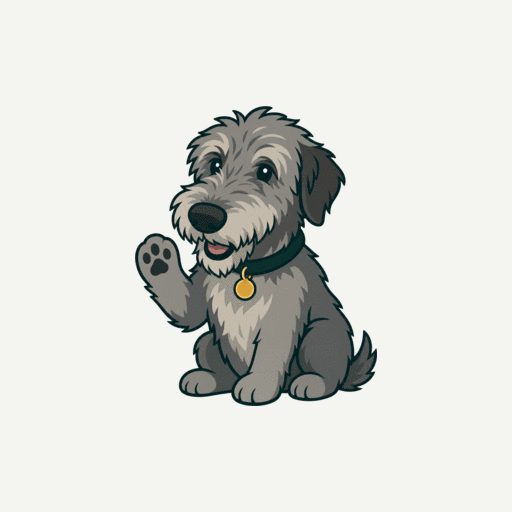
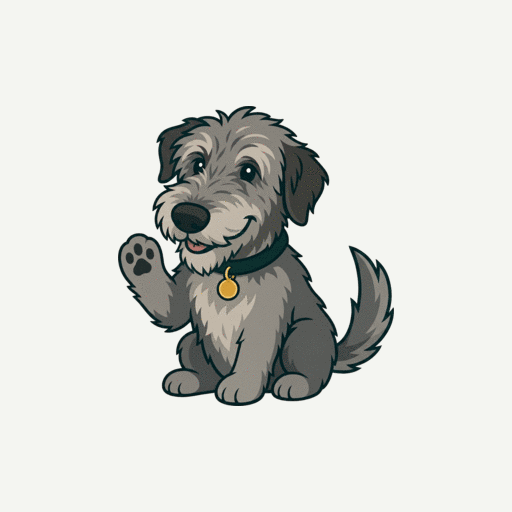
Give the mascot a cheeky grin and a real tail wag

Changed region(s): [[0.2188, 0.1875, 0.7812, 0.8125]]

diff --git a/web/public/maskot-demo.html b/web/public/maskot-demo.html
@@ -1,0 +1,79 @@
+<!doctype html>
+<html lang="sv">
+  <head>
+    <meta charset="utf-8" />
+    <meta name="viewport" content="width=device-width, initial-scale=1" />
+    <title>Sparly-hunden – svansviftning</title>
+    <style>
+      :root { --bg:#f4f5f1; --ink:#0d2027; --navy:#0b2a24; --emerald:#0f6b52; --gold:#b8902f; }
+      * { box-sizing: border-box; }
+      body { margin:0; background:var(--bg); color:var(--ink); font:16px/1.5 ui-sans-serif,system-ui,-apple-system,"Segoe UI",Roboto,sans-serif; }
+      .wrap { max-width: 1040px; margin: 0 auto; padding: 32px 20px 72px; }
+      h1 { font-size: 1.6rem; letter-spacing:-.03em; margin:0 0 4px; }
+      p.lead { margin:0 0 28px; color:#4a5b5d; }
+      .grid { display:grid; gap:20px; grid-template-columns: repeat(auto-fit, minmax(240px, 1fr)); }
+      .card { background:#fff; border:1px solid #e2e5dd; border-radius:18px; padding:18px; text-align:center; }
+      .card h2 { font-size:.8rem; text-transform:uppercase; letter-spacing:.12em; color:#6b7a76; margin:0 0 10px; }
+      .dark { background: linear-gradient(140deg,#0b2a24,#104036); border:0; color:#eafaf2; }
+      .dark h2 { color:rgba(214,245,231,.7); }
+      .stage { position:relative; display:inline-block; }
+      .frame { position:absolute; inset:0; width:100%; height:100%; opacity:0; animation: wag .6s steps(1,end) infinite; }
+      .frame:first-child { position:relative; }
+      .f1 { animation-delay:0s } .f2 { animation-delay:.2s } .f3 { animation-delay:.4s }
+      @keyframes wag { 0%,33.32%{opacity:1} 33.33%,100%{opacity:0} }
+      .slow .frame { animation-duration: 2.4s; }
+      .slow .f1 { animation-delay:0s } .slow .f2 { animation-delay:.8s } .slow .f3 { animation-delay:1.6s }
+      .sizes { display:flex; align-items:flex-end; gap:18px; justify-content:center; margin-top:12px; }
+      .note { font-size:.8rem; color:#6b7a76; margin-top:8px; }
+      .badge { display:inline-block; font-size:.75rem; padding:4px 10px; border-radius:999px; background:#e7f0ea; color:#0f6b52; }
+      footer { margin-top:36px; font-size:.82rem; color:#6b7a76; }
+    </style>
+  </head>
+  <body>
+    <div class="wrap">
+      <h1>Sparly-hunden</h1>
+      <p class="lead">Samma hund i tre teckningar – bara svansen sitter olika högt. Bilderna växlas i tur och ordning, så svansen viftar. Mungipan dras snett uppåt åt sidan, precis som du bad om.</p>
+      <div class="grid">
+        <div class="card">
+          <h2>Normal takt</h2>
+          <div class="stage" style="width:260px">
+            <img class="frame f1" src="/mascot/hund-vift-1.png" width="420" height="457" alt="" />
+            <img class="frame f2" src="/mascot/hund-vift-2.png" width="420" height="457" alt="" />
+            <img class="frame f3" src="/mascot/hund-vift-3.png" width="420" height="457" alt="" />
+          </div>
+          <p class="note">0,6 s per varv – så han rör sig i appen.</p>
+        </div>
+        <div class="card slow">
+          <h2>Långsam (för att se lägena)</h2>
+          <div class="stage" style="width:260px">
+            <img class="frame f1" src="/mascot/hund-vift-1.png" width="420" height="457" alt="" />
+            <img class="frame f2" src="/mascot/hund-vift-2.png" width="420" height="457" alt="" />
+            <img class="frame f3" src="/mascot/hund-vift-3.png" width="420" height="457" alt="" />
+          </div>
+          <p class="note">2,4 s per varv. <span class="badge">svans upp → mitt → ner</span></p>
+        </div>
+        <div class="card dark">
+          <h2>I inloggningens hero</h2>
+          <div class="stage" style="width:210px; filter: drop-shadow(0 16px 30px rgba(0,0,0,.45))">
+            <img class="frame f1" src="/mascot/hund-vift-1.png" width="420" height="457" alt="" />
+            <img class="frame f2" src="/mascot/hund-vift-2.png" width="420" height="457" alt="" />
+            <img class="frame f3" src="/mascot/hund-vift-3.png" width="420" height="457" alt="" />
+          </div>
+          <p class="note" style="color:rgba(233,242,237,.6)">På mörk botten, med skugga.</p>
+        </div>
+      </div>
+
+      <div class="card" style="margin-top:20px">
+        <h2>Storlekar</h2>
+        <div class="sizes">
+          <div class="stage" style="width:200px"><img class="frame f1" src="/mascot/hund-vift-1.png" alt="" /><img class="frame f2" src="/mascot/hund-vift-2.png" alt="" /><img class="frame f3" src="/mascot/hund-vift-3.png" alt="" /></div>
+          <div class="stage" style="width:120px"><img class="frame f1" src="/mascot/hund-vift-1.png" alt="" /><img class="frame f2" src="/mascot/hund-vift-2.png" alt="" /><img class="frame f3" src="/mascot/hund-vift-3.png" alt="" /></div>
+          <div class="stage" style="width:72px"><img class="frame f1" src="/mascot/hund-vift-1.png" alt="" /><img class="frame f2" src="/mascot/hund-vift-2.png" alt="" /><img class="frame f3" src="/mascot/hund-vift-3.png" alt="" /></div>
+        </div>
+        <p class="note">Han fungerar även litet – 72 px i sidomenyn.</p>
+      </div>
+
+      <footer>Statisk förhandsvisning av bilderna. I appen sköts animationen av <code>.mascot__wag-frame</code> i <code>styles.css</code>, och stängs av (fast mittenbild) när användaren har ”minska rörelse” påslaget.</footer>
+    </div>
+  </body>
+</html>

diff --git a/web/src/components/Mascot.tsx b/web/src/components/Mascot.tsx
@@ -1,28 +1,41 @@
 /**
  * Sparly-hunden – appens maskot.
  *
- * Tecknad efter en strävhårig salt-och-peppar-hund: lurviga ögonbryn, skägg, stor svart nos och
- * hängande öron. Bilderna är förrenderade i flera storlekar så att mobilen aldrig laddar en
- * 640 px-bild för att visa en 64 px-avatar.
+ * Tecknad efter en strävhårig salt-och-peppar-hund: lurviga ögonbryn, skägg, stor svart nos,
+ * hängande öron och en mungipa som dras snett uppåt åt sidan så att han ser glad och lite busig ut.
  *
- * `variant="full"` är hela hunden (stående, vinkande), `variant="face"` är ett kvadratiskt
- * porträtt som beskärs snyggt i en cirkel.
+ * `variant="animated"` är tre separat tecknade bilder av exakt samma hund där bara svansen sitter i
+ * olika läge (upp / mitt / ner). De växlas i tur och ordning, vilket ger en riktig svansviftning i
+ * stället för att hela hunden studsar. Alla tre bilderna har samma beskärning, så inget hoppar.
+ *
+ * Bilderna är förrenderade i flera storlekar så att mobilen aldrig laddar en 640 px-bild för att
+ * visa en 64 px-avatar.
  */
-export type MascotVariant = 'full' | 'face';
+export type MascotVariant = 'full' | 'face' | 'animated';
 
-const FACES = {
+const STILL = {
   full: {
     src: '/mascot/hund.png',
     srcSet: '/mascot/hund-128.png 128w, /mascot/hund-256.png 256w, /mascot/hund-320.png 320w, /mascot/hund.png 640w',
-    /** The full-body artwork is taller than it is wide. */
-    ratio: 1064 / 860,
+    width: 640,
+    height: 696,
   },
   face: {
     src: '/mascot/hund-ansikte.png',
     srcSet: '/mascot/hund-ansikte.png 480w',
-    ratio: 1,
+    width: 480,
+    height: 480,
   },
 } as const;
+
+/** The three wag frames share one crop, so switching between them never shifts the dog. */
+const WAG = [
+  { src: '/mascot/hund-vift-1.png', label: 'Svansen upp' },
+  { src: '/mascot/hund-vift-2.png', label: 'Svansen mitt' },
+  { src: '/mascot/hund-vift-3.png', label: 'Svansen ner' },
+] as const;
+const WAG_WIDTH = 420;
+const WAG_HEIGHT = 457;
 
 export function Mascot({
   size = 140,
@@ -38,17 +51,50 @@ export function Mascot({
   decorative?: boolean;
   title?: string;
 }) {
-  const art = FACES[variant];
+  const classes = ['mascot', `mascot--${variant}`, className].filter(Boolean).join(' ');
+  const alt = decorative ? '' : title;
+  const ariaHidden = decorative ? 'true' : undefined;
+
+  if (variant === 'animated') {
+    const height = Math.round((size * WAG_HEIGHT) / WAG_WIDTH);
+    return (
+      <span
+        className={`${classes} mascot__wag`}
+        style={{ width: size, height }}
+        role={decorative ? undefined : 'img'}
+        aria-label={decorative ? undefined : title}
+        aria-hidden={ariaHidden}
+      >
+        {WAG.map((frame, index) => (
+          <img
+            key={frame.src}
+            className="mascot__wag-frame"
+            src={frame.src}
+            width={WAG_WIDTH}
+            height={WAG_HEIGHT}
+            alt=""
+            aria-hidden="true"
+            style={{ animationDelay: `${index * 0.2}s` }}
+            decoding="async"
+            draggable={false}
+          />
+        ))}
+      </span>
+    );
+  }
+
+  const art = STILL[variant];
+  const height = Math.round((size * art.height) / art.width);
   return (
     <img
-      className={['mascot', `mascot--${variant}`, className].filter(Boolean).join(' ')}
+      className={classes}
       src={art.src}
       srcSet={art.srcSet}
       sizes={`${size}px`}
       width={size}
-      height={Math.round(size * art.ratio)}
-      alt={decorative ? '' : title}
-      aria-hidden={decorative ? 'true' : undefined}
+      height={height}
+      alt={alt}
+      aria-hidden={ariaHidden}
       decoding="async"
       draggable={false}
     />

diff --git a/web/src/styles.css b/web/src/styles.css
@@ -1642,6 +1642,43 @@ ol {
 }
 
 /*
+ * Svansviftningen: tre tecknade bilder av samma hund där bara svansen sitter olika högt.
+ * De ligger staplade på varandra och släcks/tänds i tur och ordning, 0,6 s per varv.
+ * Bilderna delar exakt samma beskärning, så bara svansen rör sig.
+ */
+.mascot__wag {
+  position: relative;
+  display: block;
+  flex: 0 0 auto;
+}
+
+.mascot__wag-frame {
+  position: absolute;
+  inset: 0;
+  width: 100%;
+  height: 100%;
+  opacity: 0;
+  animation: mascot-wag 0.6s steps(1, end) infinite;
+  user-select: none;
+  -webkit-user-drag: none;
+}
+
+.mascot__wag-frame:first-child {
+  position: relative;
+}
+
+@keyframes mascot-wag {
+  0%,
+  33.32% {
+    opacity: 1;
+  }
+  33.33%,
+  100% {
+    opacity: 0;
+  }
+}
+
+/*
  * Logga in / skapa konto: hunden sitter i hörnet av fjordscenen. På mobil ligger den i flödet
  * ovanför rubriken (högerställd, liten), på desktop sitter den stort i nedre högra hörnet.
  */
@@ -1655,9 +1692,12 @@ ol {
 }
 
 .auth__mascot .mascot {
-  height: 108px;
-  width: auto;
   filter: drop-shadow(0 12px 24px rgba(4, 24, 20, 0.45));
+}
+
+.auth__mascot-art {
+  width: 116px;
+  height: auto;
 }
 
 /* Sidopanelen (desktop): hunden som liten följeslagare ovanför nivåkortet. */
@@ -1667,8 +1707,6 @@ ol {
 
 /* Tomma lägen: hunden i stället för den generiska illustrationen. */
 .empty-state__mascot {
-  height: 118px;
-  width: auto;
   margin-bottom: 2px;
 }
 
@@ -1687,8 +1725,11 @@ ol {
   }
 
   .auth__mascot .mascot {
-    height: 300px;
     filter: drop-shadow(0 22px 44px rgba(4, 24, 20, 0.5));
+  }
+
+  .auth__mascot-art {
+    width: 300px;
   }
 
   .sidebar__mascot {
@@ -1704,9 +1745,11 @@ ol {
     text-align: center;
   }
 
-  .sidebar__mascot .mascot {
-    height: 92px;
-    width: auto;
+
+
+  .sidebar__mascot-art {
+    width: 92px;
+    height: auto;
   }
 
   .sidebar__mascot-line {
@@ -1739,5 +1782,15 @@ ol {
   .skeleton__hero,
   .skeleton__line {
     animation: none;
+  }
+
+  /* With motion turned off the dog keeps the middle frame, still visibly happy. */
+  .mascot__wag-frame {
+    animation: none;
+    opacity: 0;
+  }
+
+  .mascot__wag-frame:nth-child(2) {
+    opacity: 1;
   }
 }

diff --git a/server/tests/ui.test.ts b/server/tests/ui.test.ts
@@ -62,6 +62,28 @@ describe('18. The application works on mobile and desktop (static + delivery che
     expect(fs.readFileSync(path.join(root, 'web/src/components/UI.tsx'), 'utf8')).toContain('empty-state__mascot');
   });
 
+  it('animates the tail wag with pre-drawn frames that share one crop', () => {
+    const component = fs.readFileSync(path.join(root, 'web/src/components/Mascot.tsx'), 'utf8');
+    expect(component).toContain("variant = 'full'");
+    expect(component).toContain("'animated'");
+
+    const frames = [...component.matchAll(/\/mascot\/hund-vift-(\d)\.png/g)].map((match) => match[1]);
+    expect(frames).toEqual(['1', '2', '3']);
+
+    // All frames must be identical in size, otherwise the dog would jump when the frame switches.
+    const sizes = frames.map((frame) => {
+      const buffer = fs.readFileSync(path.join(root, 'web/public/mascot', `hund-vift-${frame}.png`));
+      return `${buffer.readUInt32BE(16)}x${buffer.readUInt32BE(20)}`;
+    });
+    expect(new Set(sizes).size).toBe(1);
+
+    const styles = fs.readFileSync(path.join(root, 'web/src/styles.css'), 'utf8');
+    expect(styles).toContain('@keyframes mascot-wag');
+    expect(styles).toContain('.mascot__wag-frame');
+    // Reduced motion must freeze the wag on a happy frame rather than flashing.
+    expect(styles).toMatch(/prefers-reduced-motion[\s\S]*\.mascot__wag-frame\s*\{\s*animation:\s*none/);
+  });
+
   it('serves the built SPA for deep links so mobile browsers can reload any tab', async () => {
     const indexPath = path.join(root, 'web/dist/index.html');
     if (!fs.existsSync(indexPath)) {

diff --git a/web/src/pages/AuthPage.tsx b/web/src/pages/AuthPage.tsx
@@ -133,7 +133,7 @@ export function AuthPage({ mode }: { mode: Mode }) {
           <Logo light />
         </div>
         <div className="auth__mascot">
-          <Mascot size={300} />
+          <Mascot variant="animated" size={300} className="auth__mascot-art" />
         </div>
         <div className="auth__hero-content">
           <p className="auth__tagline">Små steg. Stora mål.</p>

diff --git a/web/src/components/AppShell.tsx b/web/src/components/AppShell.tsx
@@ -71,7 +71,7 @@ export function AppShell({ children }: { children: ReactNode }) {
         </nav>
 
         <div className="sidebar__mascot">
-          <Mascot size={92} />
+          <Mascot variant="animated" size={92} className="sidebar__mascot-art" />
           <p className="sidebar__mascot-line">Jag håller koll på dina steg.</p>
         </div>
 

diff --git a/README.md b/README.md
@@ -428,8 +428,16 @@ downloads the 640 px artwork:
 | File | Used for |
 | --- | --- |
 | `hund.png` (640 px) + `-128`, `-256`, `-320` | `<Mascot variant="full" />`, `srcSet`-driven |
+| `hund-vift-1/2/3.png` (420×457, identical crop) | `<Mascot variant="animated" />` — the tail-wag frames |
 | `hund-ansikte.png` | `<Mascot variant="face" />` — portraits in empty states and the 404 page |
 | `hund-ikon-192/512`, `hund-ikon-maskable-512`, `hund-ikon-180` | web app manifest + `apple-touch-icon` (add to home screen) |
+
+**The wag.** The dog is drawn three times — tail up, tail middle, tail down — on an identical
+canvas, so switching frames moves the tail and nothing else. `variant="animated"` stacks the three
+images and lets them take turns being visible (`@keyframes mascot-wag`, three steps, 0.6 s per
+cycle). With `prefers-reduced-motion: reduce` the animation is turned off and the middle frame stays,
+so the dog is still there and still happy. `web/public/maskot-demo.html` is a static preview of the
+frames at normal and slow speed.
 
 `web/src/components/Mascot.tsx` is the only place that knows the file names. It appears on the
 login/registration screen (hero, bottom right on desktop, above the copy on mobile), as a small
